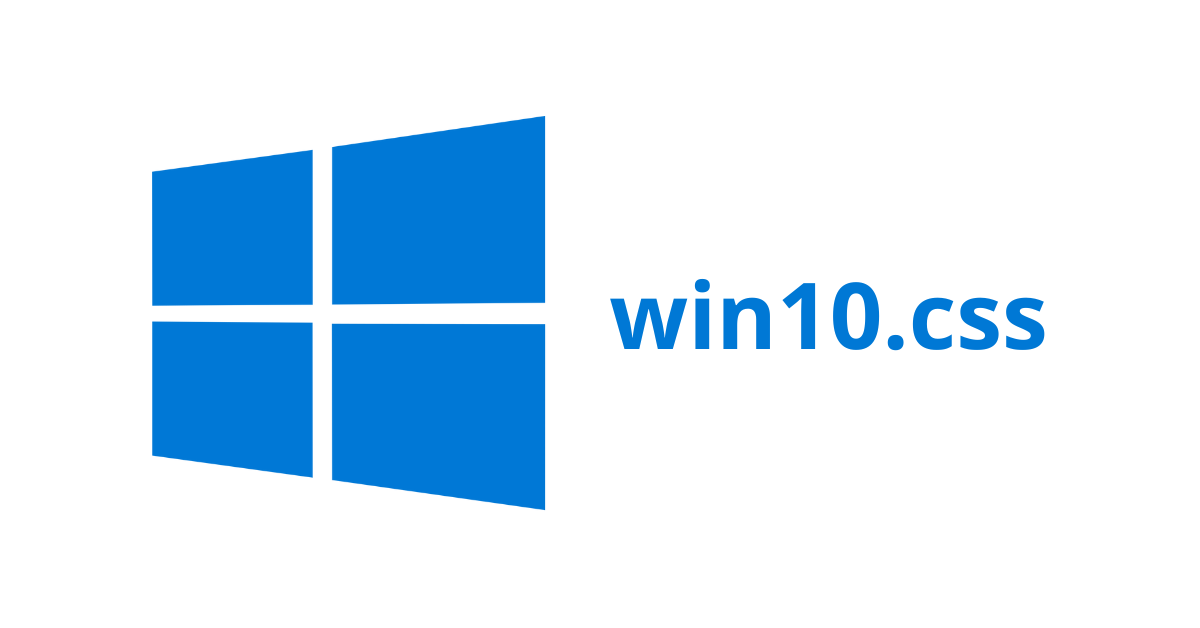
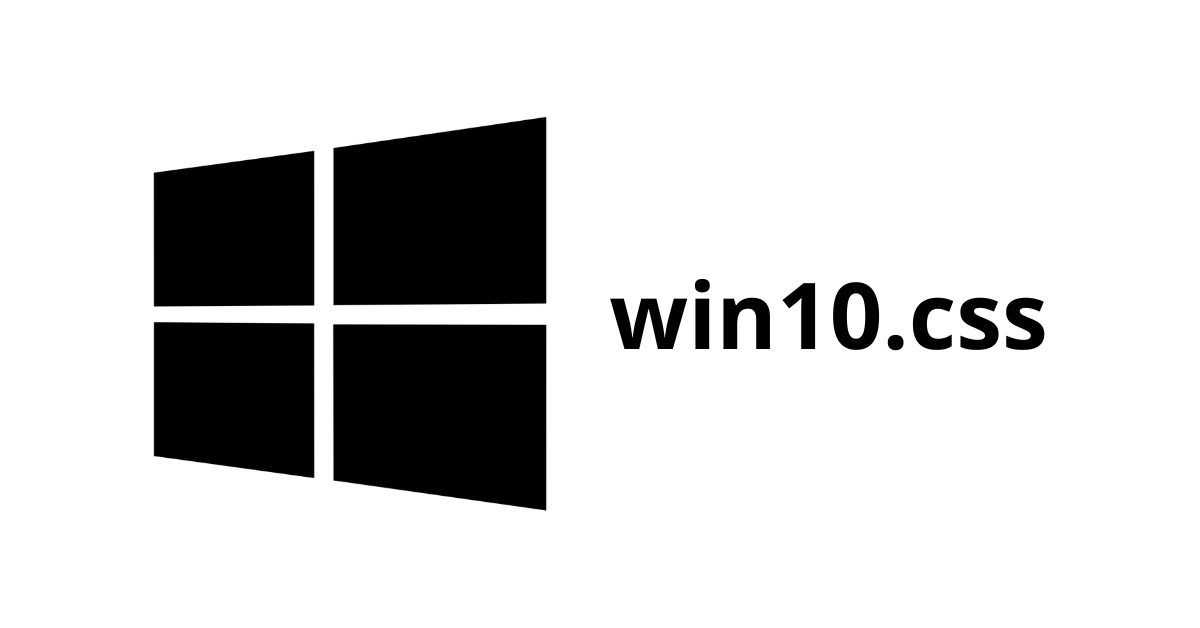
change img for readme assets

Changed region(s): [[0.1233, 0.1815, 0.4625, 0.8169], [0.4933, 0.4538, 0.8942, 0.5748]]

diff --git a/README.md b/README.md
@@ -7,4 +7,4 @@
 
 # win10.css
 ### **win10.css** is a CSS Framework help you create the modern UI like Windows 10.
-![image :aa](./readme-assets/win10.css.png)
+![image :aa](./readme-assets/win10.css-col.png)
